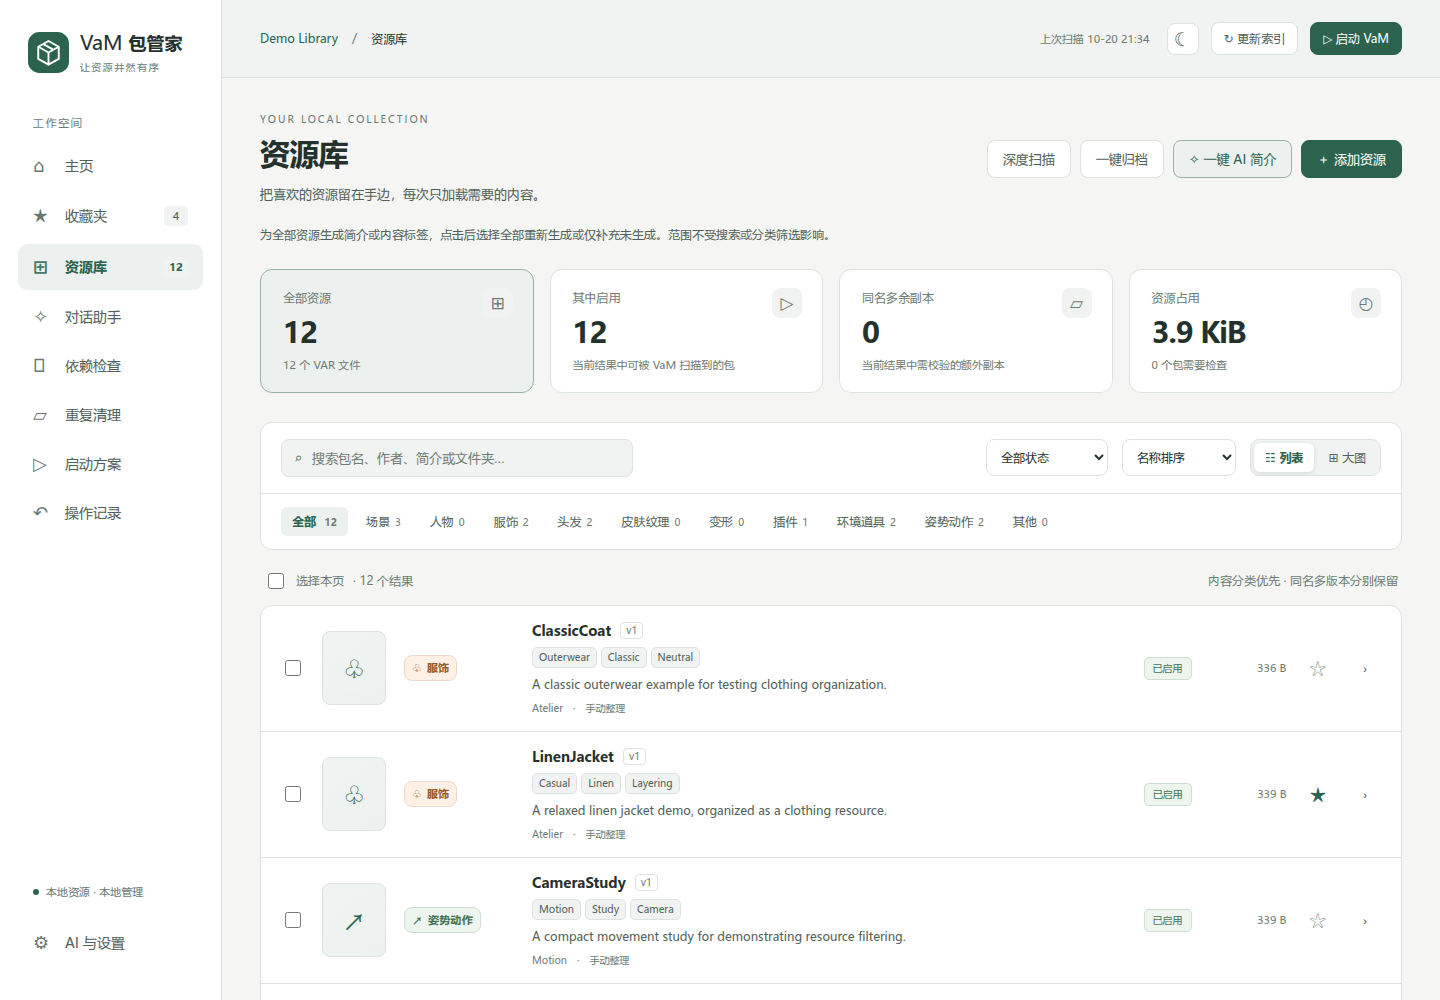
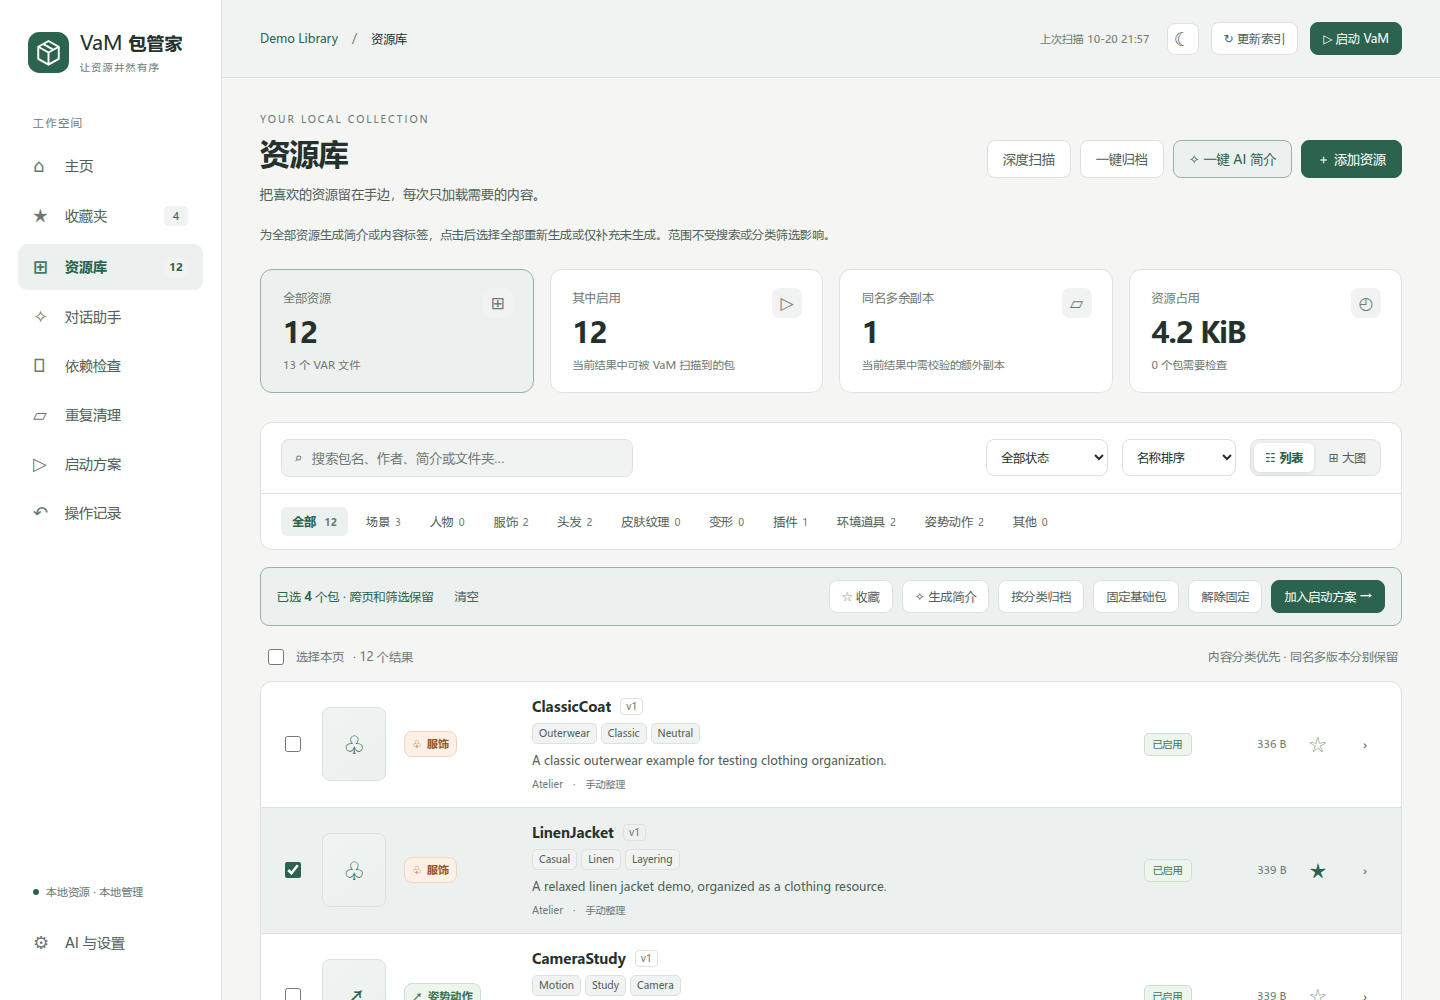
Expand bilingual README galleries across all application pages

diff --git a/README.md b/README.md
@@ -10,7 +10,7 @@ A local VAR library manager for **Virt-A-Mate (VaM)** on Windows. Organize resou
 
 *Screenshots show the running application with a synthetic demonstration library. No personal library, credentials, or third-party game assets are shown.*
 
-[Features](#features) · [Getting started](#getting-started) · [AI setup](#ai-setup) · [Storage and backups](#storage-and-backups) · [Development](#development) · [License](#license)
+[Features](#features) · [Interface tour](#interface-tour) · [Getting started](#getting-started) · [AI setup](#ai-setup) · [Storage and backups](#storage-and-backups) · [Development](#development) · [License](#license)
 
 ## Features
 
@@ -22,12 +22,65 @@ A local VAR library manager for **Virt-A-Mate (VaM)** on Windows. Organize resou
 - **Use AI when needed:** generate descriptions and tags separately or together, get resource recommendations, and chat with an assistant that retains context. Choose read-only recommendations or allow supported management actions.
 - **Make the interface yours:** customizable home cards, six color palettes, light/dark/system appearance, and English or Simplified Chinese. Language changes affect the UI and newly generated AI content; existing user content and filenames stay unchanged.
 
-<details>
-<summary>Library preview</summary>
+## Interface tour
 
-![English resource library with categories, descriptions, tags, favorites, and status filters](docs/images/library-en.png)
+Eight pages beyond Home, grouped by workflow. Click any screenshot to view it at full size. Settings is shown at the top of the page; appearance and AI controls continue below.
 
-</details>
+### Browse and discover
+<table>
+<tr>
+<td width="50%" valign="top">
+<a href="docs/images/favorites-en.png"><img src="docs/images/favorites-en.png" alt="Favorites — English interface" width="720"></a>
+<strong>Favorites</strong>
+<p>Keep frequently used packages together, filter your collection, and archive favorites in one action.</p>
+</td>
+<td width="50%" valign="top">
+<a href="docs/images/library-en.png"><img src="docs/images/library-en.png" alt="Library — English interface" width="720"></a>
+<strong>Library</strong>
+<p>Browse resources in lists or cover grids; search descriptions and tags, inspect details, and manage activation.</p>
+</td>
+</tr>
+<tr>
+<td width="50%" valign="top">
+<a href="docs/images/assistant-en.png"><img src="docs/images/assistant-en.png" alt="Assistant — English interface" width="720"></a>
+<strong>Assistant</strong>
+<p>Explore your library through a conversation, start with built-in prompts, and choose read-only recommendations when needed.</p>
+</td>
+<td width="50%" valign="top">
+<a href="docs/images/dependencies-en.png"><img src="docs/images/dependencies-en.png" alt="Dependencies — English interface" width="720"></a>
+<strong>Dependencies</strong>
+<p>See missing packages and what references them, configure download sources, and review supported repair suggestions.</p>
+</td>
+</tr>
+</table>
+
+### Maintain and configure
+<table>
+<tr>
+<td width="50%" valign="top">
+<a href="docs/images/duplicates-en.png"><img src="docs/images/duplicates-en.png" alt="Duplicates & quarantine — English interface" width="720"></a>
+<strong>Duplicates & quarantine</strong>
+<p>Verify duplicate content before cleanup, inspect quarantined batches, and restore or permanently remove them.</p>
+</td>
+<td width="50%" valign="top">
+<a href="docs/images/profiles-en.png"><img src="docs/images/profiles-en.png" alt="Launch profiles — English interface" width="720"></a>
+<strong>Launch profiles</strong>
+<p>Save resource selections or follow favorites and folders; preview activation with available dependencies included.</p>
+</td>
+</tr>
+<tr>
+<td width="50%" valign="top">
+<a href="docs/images/history-en.png"><img src="docs/images/history-en.png" alt="History — English interface" width="720"></a>
+<strong>History</strong>
+<p>Review file operations and their results, restore supported changes, and inspect dependency download records.</p>
+</td>
+<td width="50%" valign="top">
+<a href="docs/images/settings-en.png"><img src="docs/images/settings-en.png" alt="AI & Settings — English interface" width="720"></a>
+<strong>AI & Settings</strong>
+<p>Switch game directories and interface language, customize appearance, and configure AI providers and models.</p>
+</td>
+</tr>
+</table>
 
 ## Getting started
 

diff --git a/README.zh-CN.md b/README.zh-CN.md
@@ -10,7 +10,7 @@
 
 *截图来自实际运行的应用，使用独立的模拟演示资源库，不包含个人资源库、凭据或第三方游戏素材。*
 
-[功能](#功能) · [开始使用](#开始使用) · [AI 设置](#ai-设置) · [数据位置与备份](#数据位置与备份) · [开发](#开发) · [开源许可](#开源许可)
+[功能](#功能) · [界面导览](#界面导览) · [开始使用](#开始使用) · [AI 设置](#ai-设置) · [数据位置与备份](#数据位置与备份) · [开发](#开发) · [开源许可](#开源许可)
 
 ## 功能
 
@@ -22,12 +22,65 @@
 - **可选 AI 辅助**：分别或同时生成简介与标签，推荐资源，并通过保留上下文的助手继续对话。支持只读推荐及受支持的资源管理操作。
 - **界面自定义**：可增删、排列的主页卡片，六种配色，浅色/深色/跟随系统，以及中英文界面。切换语言仅影响界面和后续 AI 输出，已有用户内容及文件名保持原样。
 
-<details>
-<summary>查看资源库截图</summary>
+## 界面导览
 
-![中文资源库：分类、简介、标签、收藏及启停筛选](docs/images/library-zh.png)
+除主页外的 8 个页面，按用途分为两组四宫格。点击任意截图可查看原图。设置截图展示页面顶部，向下滚动还可配置外观和 AI。
 
-</details>
+### 浏览与发现
+<table>
+<tr>
+<td width="50%" valign="top">
+<a href="docs/images/favorites-zh.png"><img src="docs/images/favorites-zh.png" alt="收藏夹 — 中文界面" width="720"></a>
+<strong>收藏夹</strong>
+<p>集中查看常用资源，按条件筛选收藏，并一键归档，无需逐个选择。</p>
+</td>
+<td width="50%" valign="top">
+<a href="docs/images/library-zh.png"><img src="docs/images/library-zh.png" alt="资源库 — 中文界面" width="720"></a>
+<strong>资源库</strong>
+<p>使用列表或封面网格浏览资源，搜索简介与标签，查看详情并管理启停状态。</p>
+</td>
+</tr>
+<tr>
+<td width="50%" valign="top">
+<a href="docs/images/assistant-zh.png"><img src="docs/images/assistant-zh.png" alt="对话助手 — 中文界面" width="720"></a>
+<strong>对话助手</strong>
+<p>通过连续对话了解资源库，使用内置提问预设，也可开启只读推荐。</p>
+</td>
+<td width="50%" valign="top">
+<a href="docs/images/dependencies-zh.png"><img src="docs/images/dependencies-zh.png" alt="依赖检查 — 中文界面" width="720"></a>
+<strong>依赖检查</strong>
+<p>查看缺失包及引用来源，配置下载来源，并审查受支持的异常修复建议。</p>
+</td>
+</tr>
+</table>
+
+### 维护与配置
+<table>
+<tr>
+<td width="50%" valign="top">
+<a href="docs/images/duplicates-zh.png"><img src="docs/images/duplicates-zh.png" alt="重复清理与隔离区 — 中文界面" width="720"></a>
+<strong>重复清理与隔离区</strong>
+<p>校验文件内容后再清理重复副本，查看隔离批次，按需恢复或永久删除。</p>
+</td>
+<td width="50%" valign="top">
+<a href="docs/images/profiles-zh.png"><img src="docs/images/profiles-zh.png" alt="启动方案 — 中文界面" width="720"></a>
+<strong>启动方案</strong>
+<p>保存固定资源组合，或跟随收藏和文件夹；预览启用时自动包含可用依赖。</p>
+</td>
+</tr>
+<tr>
+<td width="50%" valign="top">
+<a href="docs/images/history-zh.png"><img src="docs/images/history-zh.png" alt="操作记录 — 中文界面" width="720"></a>
+<strong>操作记录</strong>
+<p>回看文件操作与执行结果，恢复受支持的改动，并查看依赖下载记录。</p>
+</td>
+<td width="50%" valign="top">
+<a href="docs/images/settings-zh.png"><img src="docs/images/settings-zh.png" alt="AI 与设置 — 中文界面" width="720"></a>
+<strong>AI 与设置</strong>
+<p>切换游戏目录和界面语言，调整外观，并配置 AI 服务与模型。</p>
+</td>
+</tr>
+</table>
 
 ## 开始使用
 
